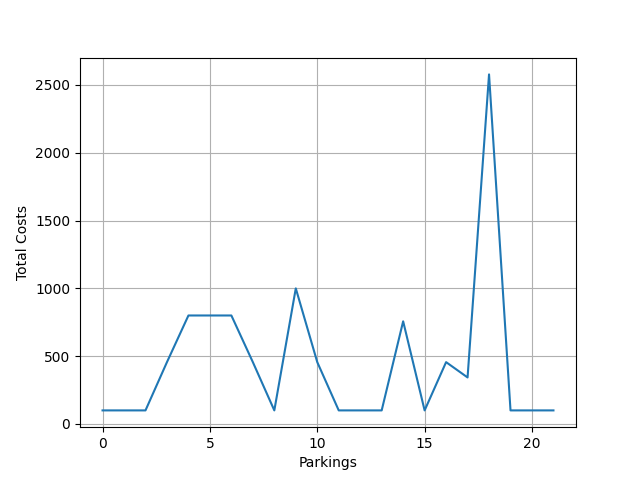
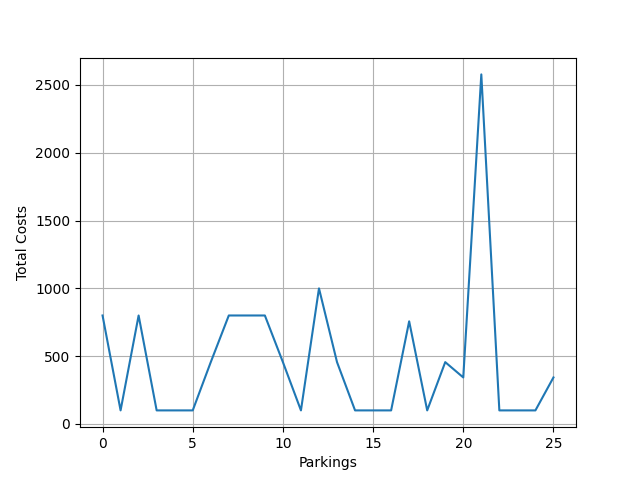
Milestone-VP Charts
Implemented the following using matplotlib.pyplot
1. Charts and Visualization for user summary
2. Charts and Visualization for admin summary

diff --git a/templates/admin/summary.html b/templates/admin/summary.html
@@ -1,0 +1,156 @@
+<!DOCTYPE html>
+<html class = "h-100" data-bs-theme = "dark">
+    <head>
+        <meta charset = "UTF-8"/>
+        <meta name = "Author" content = "J S Karthik"/>
+        <meta name = "Description" content = "User Dashboard Page"/>
+        <title>
+            Dashboard
+        </title>
+        <link rel = "icon" href = "\static\images\car-front-fill.svg"/>
+        <link rel = "stylesheet" href = "/static/bootstrap/css/bootstrap.min.css"/>
+        <link rel = "stylesheet" href = "/static/css/style.css"/>
+    </head>
+    <body class = "h-100">
+        <div class = "container-fluid bg-body-tertiary min-vh-100">
+            <div class = "container-fluid d-flex justify-content-center bg-body">
+                <div class = "container-fluid mt-2 rounded-4 container-fluid d-flex align-items-center justify-content-center overflow-auto position-fixed" style = "height: 70px; width: 98%; background-color: rgba(33, 37, 41, 0.9); z-index: 1000; box-shadow: 0 0 10px rgb(24, 26, 29); backdrop-filter: blur(3px);">
+                    <a href = "/" class = "text-decoration-none text-reset me-2">
+                        <h3>
+                            ParkEase
+                            <img src = "/static\images\car-front-fill.svg" alt = "Logo" style = "width: 40px;"/>
+                        </h3>
+                    </a>
+                    <ul class = "nav nav-tabs">
+                        <li class = "nav-item">
+                            <a class = "nav-link" href = "/admin/dashboard">
+                                Parking Lots
+                            </a>
+                        </li>
+                        <li class = "nav-item">
+                            <a class = "nav-link", href = "/admin/dashboard/users">
+                                Users
+                            </a>
+                        </li>
+                        <li class = "nav-item">
+                            <a class = "nav-link", href = "/admin/dashboard/history">
+                                History
+                            </a>
+                        </li>
+                        <li class = "nav-item">
+                            <a class = "nav-link active" href = "/admin/dashboard/summary">
+                                Summary
+                            </a>
+                        </li>
+                        </li class = "nav-item">
+                            <a class = "nav-link" href = "/signIn">
+                                Logout
+                            </a>
+                        </li>
+                        <li class = "nav-item">
+                            <a class = "nav-link" href = "/">
+                                Website
+                            </a>
+                        </li>
+                    </ul>
+                </div>
+            </div>
+            <div class = "rounded-3 container-fluid bg-body p-2 overflow-auto" style = "height: 80%; width: 100%; margin-top: 90px; box-shadow: 0 0 10px rgb(24, 26, 29);">
+                <div class = "d-flex justify-content-center align-items-center gap-2" style = "height: 60px;">
+                    <h3>
+                        Parking Summary
+                    </h3>
+                </div>
+                <div style = "height: 100%; width: 99%;">
+                    <div class = "row">
+                        <div class = "col"> 
+                            <div>
+                                <h5 class = "px-5">
+                                    Parking Lot Frequency Pie Chart
+                                </h5>
+                                <img src = "/static\images\plot1.png" class = "px-5" style = "width: 100%;"/>
+                            </div>
+                            </br>
+                            <div>
+                                <h5 class = "px-5">
+                                    Most Popular Parking Lot
+                                </h5>
+                                <div class = "px-5">
+                                    <div class = "card p-1" style = "box-shadow: 0 0 10px rgb(7, 8, 8); border: none">
+                                        <form method = "POST" action = "/admin/dashboard" style = "height: 100%; width: 100%;">
+                                            <div class = "card-body">
+                                                <h5 class = "card-title text-center border-bottom">
+                                                    Lot #{{ parkingLot.id }}
+                                                </h5>
+                                                <input type = "hidden" name = "parkingLotId" value = "{{ parkingLot.id }}"/>
+                                                <div class = "container-fluid d-flex align-items-center justify-content-center gap-1">
+                                                    <button type = "submit" name = "action" value = "edit" class = "btn btn-warning btn-sm d-flex justify-content-center align-items-center" style = "width: 100%;">
+                                                        <img src = "\static\images\pencil-square.svg" alt = "Edit"/>
+                                                    </button>
+                                                    <button type = "submit" name = "action" value = "delete" class = "btn btn-danger btn-sm d-flex justify-content-center align-items-center" style = "width: 100%;">
+                                                        <img src = "\static\images\trash3-fill.svg" alt = "Delete"/>
+                                                    </button>
+                                                    <button type = "submit" name = "action" value = "details" class = "btn btn-info btn-sm d-flex justify-content-center align-items-center" style = "width: 100%;">
+                                                        <img src = "\static\images\info-square-fill.svg" alt = "Details"/>
+                                                    </button>
+                                                </div>
+                                                <div class = "card-text text-center">
+                                                    {{ parkingLot.parkingSpots | selectattr("status", "equalto", 0) | list | count }} / {{ parkingLot.noOfParkingSpots }} Spots Available
+                                                    <div class = "container-fluid d-flex align-items-center justify-content-center gap-1">
+                                                        <button type = "submit" name = "action" value = "delete1" class = "btn btn-secondary btn-sm d-flex align-items-center justify-content-center">
+                                                            <img src = "\static\images\dash.svg" alt = "-1"/>
+                                                        </button>
+                                                        <button type = "submit" name = "action" value = "add1" class = "btn btn-secondary btn-sm d-flex align-items-center justify-content-center">
+                                                            <img src = "\static\images\plus.svg" alt = "+1"/>
+                                                        </button>
+                                                    </div>
+                                                    {{ parkingLot.pricePerHr }} Rs Per Hr
+                                                    </br>
+                                                    Landmark: {{ parkingLot.landmark }}
+                                                    </br>
+                                                    Address: {{ parkingLot.address | title }}
+                                                </div>
+                                            </div>
+                                        </form>
+                                    </div>
+                                </div>
+                            </div>
+                        </div>
+                        <div class = "col">
+                            <div>
+                                <h5 class = "px-5">
+                                    Trend of Revenue Generated
+                                </h5>
+                                <img class = "px-5" src = "/static\images\plot2.png" style = "width: 100%;"/>
+                            </div>
+                            </br>
+                            <h5 class = "px-5">
+                                    <div class = "alert alert-dark">
+                                        <img src = "/static\images\arrow-right-short.svg" alt = "Logo" style = "width: 40px;"/>
+                                        Total Revenue Generated: {{ cost }}
+                                    </div>
+                                    <div class = "alert alert-dark">
+                                        <img src = "/static\images\arrow-right-short.svg" alt = "Logo" style = "width: 40px;"/>
+                                        Total No of Parkings: {{ noOfParkings }}
+                                    </div>
+                                    <div class = "alert alert-dark">
+                                        <img src = "/static\images\arrow-right-short.svg" alt = "Logo" style = "width: 40px;"/>
+                                        No of Occupied Parking Spots Right Now: {{ noOfOccupiedParkingSpotsRN }}
+                                    </div>
+                                    <div class = "alert alert-dark">
+                                        <img src = "/static\images\arrow-right-short.svg" alt = "Logo" style = "width: 40px;"/>
+                                        Total No Of Parking Lots: {{ noOfParkingLots }}
+                                    </div>
+                                    <div class = "alert alert-dark">
+                                        <img src = "/static\images\arrow-right-short.svg" alt = "Logo" style = "width: 40px;"/>
+                                        Total No Of Parking Spots: {{ noOfParkingSpots }}
+                                    </div>
+                                </ul>
+                            </h5>
+                        </div>
+                    </div>
+                </div>
+            </div>
+        </div>
+    </body>
+</html>

diff --git a/templates/general/landingPage.html b/templates/general/landingPage.html
@@ -1,5 +1,5 @@
 <!DOCTYPE html>
-<html data-bs-theme="dark" class = "h-100">
+<html data-bs-theme = "dark" class = "h-100">
     <head>
         <meta charset = "UTF-8"/>
         <meta name = "Author" content = "J S Karthik"/>
@@ -14,7 +14,7 @@
     <body class = "h-100">
         <div class = "container-fluid bg-body-tertiary min-vh-100">
             <div class = "container-fluid d-flex justify-content-center bg-body">
-                <div class = "container-fluid mt-2 rounded-4 container-fluid d-flex align-items-center justify-content-center overflow-auto position-fixed" style = "height: 70px; width: 98%; background-color: rgba(33, 37, 41, 0.8); z-index: 1000; box-shadow: 0 0 10px rgb(24, 26, 29);">
+                <div class = "container-fluid mt-2 rounded-4 container-fluid d-flex align-items-center justify-content-center overflow-auto position-fixed" style = "height: 90px; width: 98%; background-color: rgba(33, 37, 41, 0.8); z-index: 1000; box-shadow: 0 0 10px rgb(24, 26, 29);">
                     <a href = "/" class = "text-decoration-none text-reset me-2">
                         <h3>
                             ParkEase
@@ -45,7 +45,7 @@
                     </ul>
                 </div>
             </div>
-            <div class = "rounded-3 container-fluid bg-body p-2 overflow-fixed" style = "height: 80%; width: 100%; margin-top: 90px; box-shadow: 0 0 10px rgb(24, 26, 29);">
+            <div class = "rounded-3 container-fluid bg-body p-2 overflow-fixed" style = "height: 80%; width: 100%; margin-top: 110px; box-shadow: 0 0 10px rgb(24, 26, 29);">
                 <div class = "text-center">
                     <h1>
                         ParkEase

diff --git a/templates/admin/reservationHistory.html b/templates/admin/reservationHistory.html
@@ -36,6 +36,12 @@
                             <a class = "nav-link active", href = "/admin/dashboard/history">
                                 History
                             </a>
+                        </li>
+                        <li class = "nav-item">
+                            <a class = "nav-link" href = "/admin/dashboard/summary">
+                                Summary
+                            </a>
+                        </li>
                         </li class = "nav-item">
                             <a class = "nav-link" href = "/signIn">
                                 Logout

diff --git a/templates/admin/displayUsers.html b/templates/admin/displayUsers.html
@@ -36,6 +36,12 @@
                             <a class = "nav-link", href = "/admin/dashboard/history">
                                 History
                             </a>
+                        </li>
+                        <li class = "nav-item">
+                            <a class = "nav-link" href = "/admin/dashboard/summary">
+                                Summary
+                            </a>
+                        </li>
                         </li class = "nav-item">
                             <a class = "nav-link" href = "/signIn">
                                 Logout

diff --git a/templates/admin/parkingLotAction.html b/templates/admin/parkingLotAction.html
@@ -36,6 +36,12 @@
                             <a class = "nav-link", href = "/admin/dashboard/history">
                                 History
                             </a>
+                        </li>
+                        <li class = "nav-item">
+                            <a class = "nav-link" href = "/admin/dashboard/summary">
+                                Summary
+                            </a>
+                        </li>
                         </li class = "nav-item">
                             <a class = "nav-link" href = "/signIn">
                                 Logout

diff --git a/controllers/adminDashboard.py b/controllers/adminDashboard.py
@@ -6,6 +6,7 @@ from models.parkingInfo import ParkingLot, ParkingSpot, ReservedParkingSpot
 from models.userInfo import User, Address
 from sqlalchemy.exc import IntegrityError
 from sqlalchemy import nulls_first, desc
+import matplotlib.pyplot as plt
 
 @adminbp.before_request
 def restrict() :
@@ -198,7 +199,52 @@ def history() :
     if request.method == "GET" :
         return render_template("admin/reservationHistory.html", reservedParkingSpots = viewHistory())
 
+def viewAllReservedParkingSpots() :
+    return db.session.execute(db.select(ReservedParkingSpot).order_by(nulls_first(desc(ReservedParkingSpot.parkingTimestamp)))).scalars().all()
+
+def getParkingLotsUsedByUsersLiUsingReservedParkingSpots() :
+    return [i.parkingSpot.parkingLot.id for i in db.session.execute(db.select(User)).scalars().first().reservedParkingSpots]
+
+def frequentlyUsedParkingLot() :
+    parkingLotIds = getParkingLotsUsedByUsersLiUsingReservedParkingSpots()
+    return getParkingLot(max(set(parkingLotIds), key = parkingLotIds.count))
+
+def sumOfTotalCosts() :
+    reservedParkingSpots = viewAllReservedParkingSpots()
+    sum = 0
+    for i in reservedParkingSpots :
+        if i.totalCost is not None:
+            sum += i.totalCost 
+    return sum
+
+def plotPiePlotOfParkingLotsUsed() :
+    plt.figure()
+    li = getParkingLotsUsedByUsersLiUsingReservedParkingSpots()
+    labels = sorted(set(li))
+    countLi = [li.count(i) for i in labels]
+    plt.pie(countLi, labels = [("Lot#" + str(i)) for i in labels], rotatelabels = True, labeldistance = 0.5)
+    plt.savefig("static/images/plot1.png")
+
+def plotLinePlotOfTotalCosts() :
+    plt.figure()
+    costLi = [i.totalCost for i in viewAllReservedParkingSpots()]
+    xAxis = [i for i in range(0, len(costLi))]
+    plt.plot(xAxis, costLi)
+    plt.xlabel("Parkings")
+    plt.ylabel("Total Costs")
+    plt.grid(True)
+    plt.savefig("static/images/plot2.png")
+
+def noOfOccupiedParkingSpotsRN() :
+    return len(db.session.execute(db.select(ParkingSpot).filter_by(status = True)).scalars().all())
+
+def totalNoOfType(type) :
+    model = globals()[type]
+    return len(db.session.execute(db.select(model)).scalars().all())
+
 @adminbp.route("/dashboard/summary", methods = ["GET"])
 def summary() :
     if request.method == "GET" :
-        return 
+        plotPiePlotOfParkingLotsUsed()
+        plotLinePlotOfTotalCosts()
+        return render_template("admin/summary.html", parkingLot = frequentlyUsedParkingLot(), cost = sumOfTotalCosts(), noOfParkings = totalNoOfType("ReservedParkingSpot"), noOfOccupiedParkingSpotsRN = noOfOccupiedParkingSpotsRN(), noOfParkingLots = totalNoOfType("ParkingLot"), noOfParkingSpots = totalNoOfType("ParkingSpot"))
